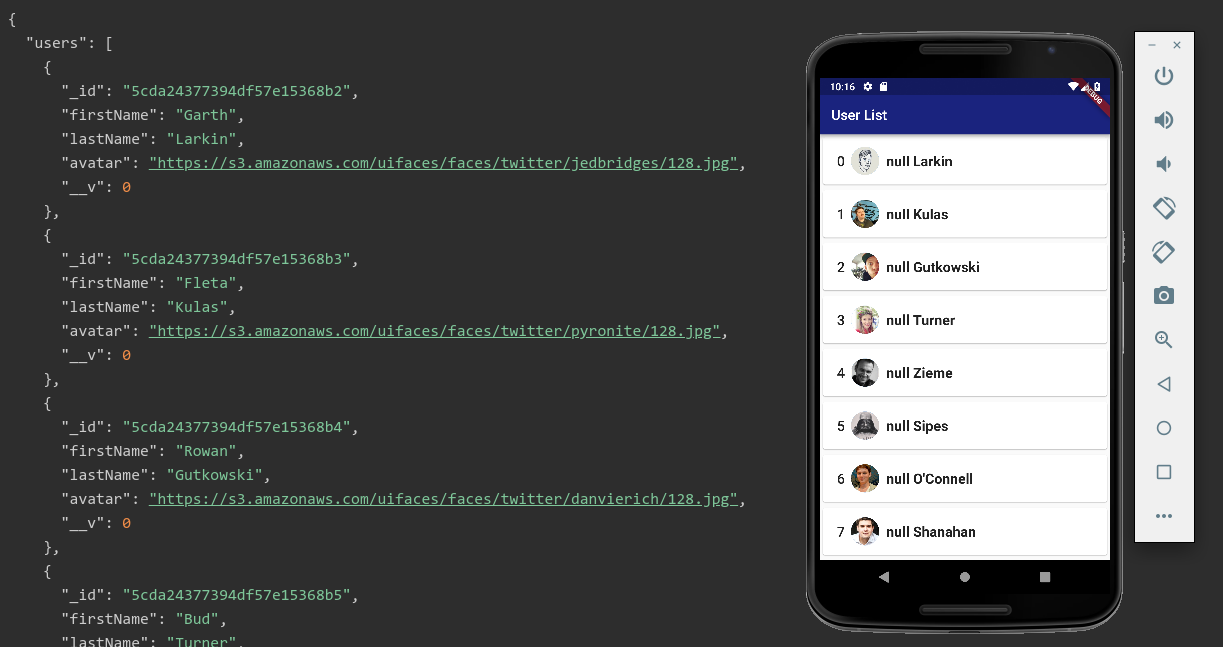
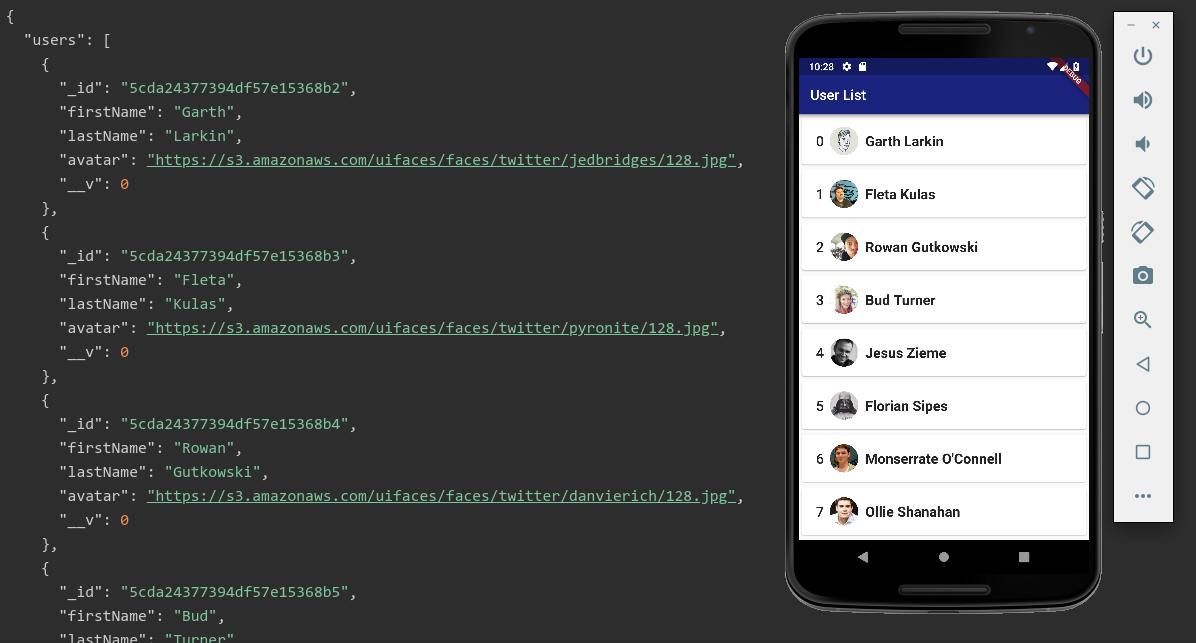
firstname fixed

diff --git a/usersapp/lib/main.dart b/usersapp/lib/main.dart
@@ -67,7 +67,7 @@ class _HomePageState extends State<HomePage> {
                   Padding(
                     padding: const EdgeInsets.all(10.0),
                     child: Text(
-                      "${usersData[index]["firsName"]} ${usersData[index]["lastName"]}",
+                      "${usersData[index]["firstName"]} ${usersData[index]["lastName"]}",
                       style: TextStyle(
                           fontSize: 20.0, fontWeight: FontWeight.w700),
                     ),
